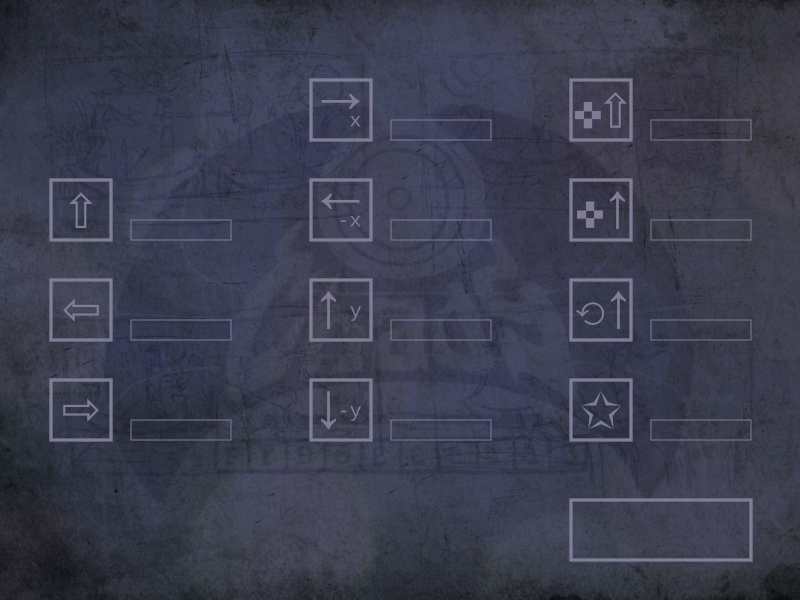
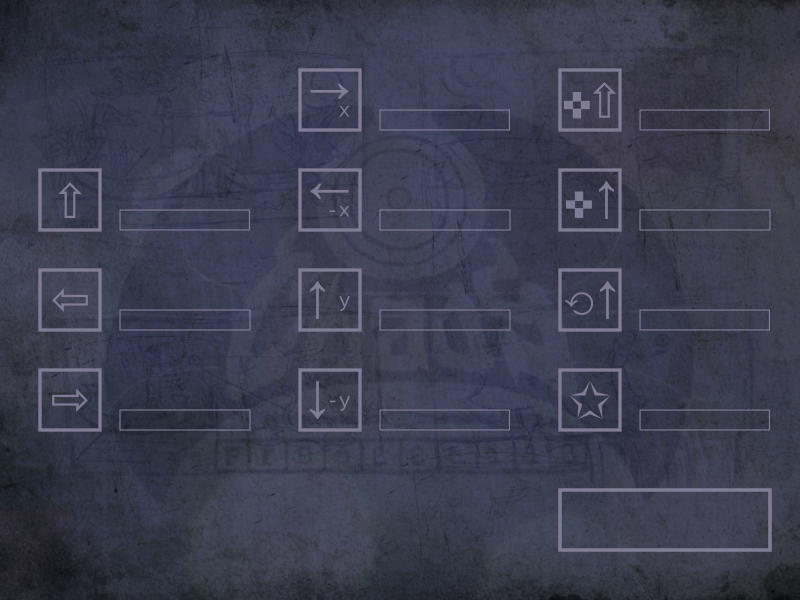
Changes in settings screen and removed some unnecessary tiles in level files

diff --git a/src/controlSettingScreen.py b/src/controlSettingScreen.py
@@ -7,8 +7,8 @@
 import pygame
 import events
 
-BLACK    = (   0,   0,   0)
-WHITE    = ( 255, 255, 255)
+BLACK = (0, 0, 0)
+WHITE = (255, 255, 255)
 LILAC = (166, 161, 195)
 RED = (250, 101, 101)
 
@@ -48,7 +48,7 @@ class ControlSettingScreen():
     def __init__(self, screen):
         self.screen = screen
         self.font = pygame.font.Font("data/FreeSans.ttf", 16)
-        self.font_small = pygame.font.Font("data/FreeSans.ttf", 13)
+        self.font_small = pygame.font.Font("data/FreeSans.ttf", 12)
         self.textList = ["Start game with this settings", #Text on Done button
                          "-", #move left input
                          "-", #move right input
@@ -66,73 +66,73 @@ class ControlSettingScreen():
         #Selection icon
         self.selectedIm = pygame.sprite.Sprite()
         self.selectedIm.image = pygame.image.load("data/ui_selected.png").convert_alpha()
-        self.selectedIm.rect = self.selectedIm.image.get_rect(center = (81, 209))
+        self.selectedIm.rect = self.selectedIm.image.get_rect(center = (70, 199))
         self.icon_list.add(self.selectedIm)
         #Jump icon
         self.jumpIm = pygame.sprite.Sprite()
         self.jumpIm.image = pygame.image.load("data/ui_jump.png").convert()
-        self.jumpIm.rect = self.jumpIm.image.get_rect(center = (81, 209))
+        self.jumpIm.rect = self.jumpIm.image.get_rect(center = (70, 199))
         self.icon_list.add(self.jumpIm)
         #Move Left icon
         self.moveLeftIm = pygame.sprite.Sprite()
         self.moveLeftIm.image = pygame.image.load("data/ui_move_left.png").convert()
-        self.moveLeftIm.rect = self.moveLeftIm.image.get_rect(center = (81, 309))
+        self.moveLeftIm.rect = self.moveLeftIm.image.get_rect(center = (70, 299))
         self.icon_list.add(self.moveLeftIm)
         #Move Right icon
         self.moveRightIm = pygame.sprite.Sprite()
         self.moveRightIm.image = pygame.image.load("data/ui_move_right.png").convert()
-        self.moveRightIm.rect = self.moveRightIm.image.get_rect(center = (81, 409))
+        self.moveRightIm.rect = self.moveRightIm.image.get_rect(center = (70, 399))
         self.icon_list.add(self.moveRightIm)
         #Use Hat to Move icon
         self.moveHatIm = pygame.sprite.Sprite()
         self.moveHatIm.image = pygame.image.load("data/ui_move_hat.png").convert()
-        self.moveHatIm.rect = self.moveHatIm.image.get_rect(center = (601, 109))
+        self.moveHatIm.rect = self.moveHatIm.image.get_rect(center = (590, 99))
         self.icon_list.add(self.moveHatIm)
         self.deactivate_hat_move_btn()
         #Use Aim in X direction icon
         self.aimXIm = pygame.sprite.Sprite()
         self.aimXIm.image = pygame.image.load("data/ui_aim_x.png").convert()
-        self.aimXIm.rect = self.aimXIm.image.get_rect(center = (341, 109))
+        self.aimXIm.rect = self.aimXIm.image.get_rect(center = (330, 99))
         self.icon_list.add(self.aimXIm)
         #Use Aim in -X direction icon
         self.aimMXIm = pygame.sprite.Sprite()
         self.aimMXIm.image = pygame.image.load("data/ui_aim_m_x.png").convert()
-        self.aimMXIm.rect = self.aimMXIm.image.get_rect(center = (341, 209))
+        self.aimMXIm.rect = self.aimMXIm.image.get_rect(center = (330, 199))
         self.icon_list.add(self.aimMXIm)
         #Use Aim in Y direction icon
         self.aimYIm = pygame.sprite.Sprite()
         self.aimYIm.image = pygame.image.load("data/ui_aim_y.png").convert()
-        self.aimYIm.rect = self.aimYIm.image.get_rect(center = (341, 309))
+        self.aimYIm.rect = self.aimYIm.image.get_rect(center = (330, 299))
         self.icon_list.add(self.aimYIm)
         #Use Aim in -Y direction icon
         self.aimMYIm = pygame.sprite.Sprite()
         self.aimMYIm.image = pygame.image.load("data/ui_aim_m_y.png").convert()
-        self.aimMYIm.rect = self.aimMYIm.image.get_rect(center = (341, 409))
+        self.aimMYIm.rect = self.aimMYIm.image.get_rect(center = (330, 399))
         self.icon_list.add(self.aimMYIm)
         #Use Mouse to Aim icon
         self.aimMouseIm = pygame.sprite.Sprite()
         self.aimMouseIm.image = pygame.image.load("data/ui_aim_mouse.png").convert()
-        self.aimMouseIm.rect = self.aimMouseIm.image.get_rect(center = (601, 309))
+        self.aimMouseIm.rect = self.aimMouseIm.image.get_rect(center = (590, 299))
         self.icon_list.add(self.aimMouseIm)
         self.deactivate_mouse_aim_btn()
         #Use Hat to Aim icon
         self.aimHatIm = pygame.sprite.Sprite()
         self.aimHatIm.image = pygame.image.load("data/ui_aim_hat.png").convert()
-        self.aimHatIm.rect = self.aimHatIm.image.get_rect(center = (601, 209))
+        self.aimHatIm.rect = self.aimHatIm.image.get_rect(center = (590, 199))
         self.icon_list.add(self.aimHatIm)
         self.deactivate_hat_aim_btn()
         #Default controls
         self.defaultIm = pygame.sprite.Sprite()
         self.defaultIm.image = pygame.image.load("data/ui_default.png").convert()
-        self.defaultIm.rect = self.defaultIm.image.get_rect(center = (601, 409))
+        self.defaultIm.rect = self.defaultIm.image.get_rect(center = (590, 399))
         self.icon_list.add(self.defaultIm)
         self.toggle_default_btn()
         #Done icon
         self.doneIm = pygame.sprite.Sprite()
-        self.doneIm.image = pygame.Surface([185, 62])#pygame.image.load("data/orb.png").convert()
+        self.doneIm.image = pygame.Surface([214, 64])
         self.doneIm.image.fill(RED)
         self.doneIm.image.set_alpha(0)
-        self.doneIm.rect = self.doneIm.image.get_rect(center = (661, 530))
+        self.doneIm.rect = self.doneIm.image.get_rect(center = (666, 522))
         self.icon_list.add(self.doneIm)
         self.currently_selected = SelectedUI.JUMP
 
@@ -192,8 +192,6 @@ class ControlSettingScreen():
         elif (self.defaultIm.rect.collidepoint(x,y)):
             move_to(self.selectedIm.rect, self.defaultIm.rect.center)
             self.currently_selected = SelectedUI.USE_DEFAULT_CONTROLS
-            self.toggle_aim_btns()
-            self.toggle_move_btns()
             self.toggle_default_btn()
             return self.currently_selected
         elif (self.doneIm.rect.collidepoint(x,y)):
@@ -202,7 +200,6 @@ class ControlSettingScreen():
             return self.currently_selected
         else:
             return None
-        
 
     def draw(self):
         """Draw this screen
@@ -240,32 +237,32 @@ class ControlSettingScreen():
         self.screen.blit(text, [40, 525])
         #
         text = self.font.render("Jump", True, LILAC)
-        self.screen.blit(text, [130, 185])
+        self.screen.blit(text, [120, 175])
         text = self.font.render("Move Left", True, LILAC)
-        self.screen.blit(text, [130, 285])
+        self.screen.blit(text, [120, 275])
         text = self.font.render("Move Right", True, LILAC)
-        self.screen.blit(text, [130, 385])
+        self.screen.blit(text, [120, 375])
         #
         text = self.font.render("Aim X", True, LILAC)
-        self.screen.blit(text, [390, 85])
+        self.screen.blit(text, [380, 75])
         text = self.font.render("Aim -X", True, LILAC)
-        self.screen.blit(text, [390, 185])
+        self.screen.blit(text, [380, 175])
         text = self.font.render("Aim Y", True, LILAC)
-        self.screen.blit(text, [390, 285])
+        self.screen.blit(text, [380, 275])
         text = self.font.render("Aim -Y", True, LILAC)
-        self.screen.blit(text, [390, 385])
+        self.screen.blit(text, [380, 375])
         #
         text = self.font.render("use Hat to Move", True, LILAC)
-        self.screen.blit(text, [650, 85])
+        self.screen.blit(text, [640, 75])
         text = self.font.render("use Hat to Aim", True, LILAC)
-        self.screen.blit(text, [650, 185])
+        self.screen.blit(text, [640, 175])
         text = self.font.render("use Mouse to Aim", True, LILAC)
-        self.screen.blit(text, [650, 285])
+        self.screen.blit(text, [640, 275])
         text = self.font.render("use Default settings", True, LILAC)
-        self.screen.blit(text, [650, 385])
+        self.screen.blit(text, [640, 375])
         #
         text = self.font.render("use this settings & play", True, RED)
-        self.screen.blit(text, [580, 520])
+        self.screen.blit(text, [579, 510])
 
     def update_input_layout(self, actions_map,
                             use_mouse_to_aim_and_fire, use_hat_to_aim,
@@ -283,21 +280,21 @@ class ControlSettingScreen():
             if (control.type == pygame.KEYDOWN):
                 self.textList[action] = "Button: {}".format(pygame.key.name(control.key))
             elif (control.type == pygame.JOYBUTTONDOWN):
-                self.textList[action] = "Button: {}, Stick: {}".format(control.button, control.joy)
+                self.textList[action] = "Button: {}, Gamepad: {}".format(control.button, control.joy)
             elif (control.type == pygame.JOYAXISMOTION):
-                self.textList[action] = "Axis: {}, Stick: {}".format(control.axis, control.joy)
+                self.textList[action] = "Axis: {}, Gamepad: {}".format(control.axis, control.joy)
         if use_mouse_to_aim_and_fire:
             self.textList[SelectedUI.AIM_WITH_MOUSE] = "Yes"
         else:
             self.textList[SelectedUI.AIM_WITH_MOUSE] = "No"
         if use_hat_to_aim > -1:
-            self.textList[SelectedUI.AIM_WITH_HAT] = "Yes"
+            self.textList[SelectedUI.AIM_WITH_HAT] = "Hat: {}".format(use_hat_to_aim)
         else:
-            self.textList[SelectedUI.AIM_WITH_HAT] = "No"
+            self.textList[SelectedUI.AIM_WITH_HAT] = "-"
         if use_hat_to_move > -1:
-            self.textList[SelectedUI.MOVE_WITH_HAT] = "Yes"
+            self.textList[SelectedUI.MOVE_WITH_HAT] = "Hat: {}".format(use_hat_to_move)
         else:
-            self.textList[SelectedUI.MOVE_WITH_HAT] = "No"
+            self.textList[SelectedUI.MOVE_WITH_HAT] = "-"
         if use_default_controls:
             self.textList[SelectedUI.USE_DEFAULT_CONTROLS] = "Yes"
         else:
@@ -307,29 +304,29 @@ class ControlSettingScreen():
         """Print input layout.
         """
         text = self.font_small.render(self.textList[SelectedUI.JUMP], True, RED)
-        self.screen.blit(text, [137, 222])
+        self.screen.blit(text, [127, 213])
         text = self.font_small.render(self.textList[SelectedUI.MOVE_LEFT], True, RED)
-        self.screen.blit(text, [137, 322])
+        self.screen.blit(text, [127, 313])
         text = self.font_small.render(self.textList[SelectedUI.MOVE_RIGHT], True, RED)
-        self.screen.blit(text, [137, 422])
+        self.screen.blit(text, [127, 413])
         #
         text = self.font_small.render(self.textList[SelectedUI.AIM_X], True, RED)
-        self.screen.blit(text, [397, 122])
+        self.screen.blit(text, [387, 113])
         text = self.font_small.render(self.textList[SelectedUI.AIM_MINUS_X], True, RED)
-        self.screen.blit(text, [397, 222])
+        self.screen.blit(text, [387, 213])
         text = self.font_small.render(self.textList[SelectedUI.AIM_Y], True, RED)
-        self.screen.blit(text, [397, 322])
+        self.screen.blit(text, [387, 313])
         text = self.font_small.render(self.textList[SelectedUI.AIM_MINUS_Y], True, RED)
-        self.screen.blit(text, [397, 422])
+        self.screen.blit(text, [387, 413])
         #
         text = self.font_small.render(self.textList[SelectedUI.MOVE_WITH_HAT], True, RED)
-        self.screen.blit(text, [657, 122])
+        self.screen.blit(text, [647, 113])
         text = self.font_small.render(self.textList[SelectedUI.AIM_WITH_HAT], True, RED)
-        self.screen.blit(text, [657, 222])
+        self.screen.blit(text, [647, 213])
         text = self.font_small.render(self.textList[SelectedUI.AIM_WITH_MOUSE], True, RED)
-        self.screen.blit(text, [657, 322])
+        self.screen.blit(text, [647, 313])
         text = self.font_small.render(self.textList[SelectedUI.USE_DEFAULT_CONTROLS], True, RED)
-        self.screen.blit(text, [657, 422])
+        self.screen.blit(text, [647, 413])
 
     def deactivate_move_btns(self):
         """Disables/Hide UI elements for movement"""

diff --git a/src/controller.py b/src/controller.py
@@ -175,18 +175,22 @@ class InputController:
                             elif (action == controlSettingScreen.SelectedUI.AIM_WITH_HAT and
                                  self.use_hat_to_aim > -1):
                                 self.use_hat_to_aim = -1
-                                self.control_setting_screen.activate_aim_btns()
                                 self.control_setting_screen.deactivate_hat_aim_btn()
+                                if not self.use_mouse_to_aim_and_fire:
+                                    self.control_setting_screen.activate_aim_btns()
                             #Mouse aim toggle
                             elif (action == controlSettingScreen.SelectedUI.AIM_WITH_MOUSE):
                                 if self.use_mouse_to_aim_and_fire:
                                     self.use_mouse_to_aim_and_fire = False
-                                    self.control_setting_screen.activate_aim_btns()
                                     self.control_setting_screen.deactivate_mouse_aim_btn()
+                                    if self.use_hat_to_aim < 0:
+                                        self.control_setting_screen.activate_aim_btns()
                                 else:
                                     self.use_mouse_to_aim_and_fire = True
                                     self.control_setting_screen.deactivate_aim_btns()
                                     self.control_setting_screen.activate_mouse_aim_btn()
+                                    self.control_setting_screen.deactivate_hat_aim_btn()
+                                    self.use_hat_to_aim = -1
                             #Default controls toggle
                             elif (action == controlSettingScreen.SelectedUI.USE_DEFAULT_CONTROLS):
                                 self.use_default_controls = (not self.use_default_controls)
@@ -198,6 +202,7 @@ class InputController:
                             self.use_hat_to_aim = event.hat
                             self.control_setting_screen.deactivate_aim_btns()
                             self.control_setting_screen.activate_hat_aim_btn()
+                            self.control_setting_screen.deactivate_mouse_aim_btn()
                         #Move with hat activate
                         elif (action == controlSettingScreen.SelectedUI.MOVE_WITH_HAT and
                              not event.hat == self.use_hat_to_move):

diff --git a/src/rendersystem.py b/src/rendersystem.py
@@ -34,7 +34,8 @@ class RenderSystem(object):
         #Create new renderer (camera)
         self.map_layer = pyscroll.BufferedRenderer(self.world.level.map_data,
                                                    (w, h),
-                                                   clamp_camera=False)
+                                                   clamp_camera=False, colorkey=None,
+                                                   alpha=True)
         #The sprite should to be on top of layer named "decoration behind"
         #Find layer number of the layer named "decoration behind"
         self.render_layer = 0
@@ -76,6 +77,8 @@ class RenderSystem(object):
         :param dt: CPU tick
         :type dt: int
         """
+        self.screen.fill((10, 6, 28)) #dark blue-lilac bg
+        #TODO here parallax layer
         self.update()
         self.group.update(dt)
         #Center the map/screen on the single player
